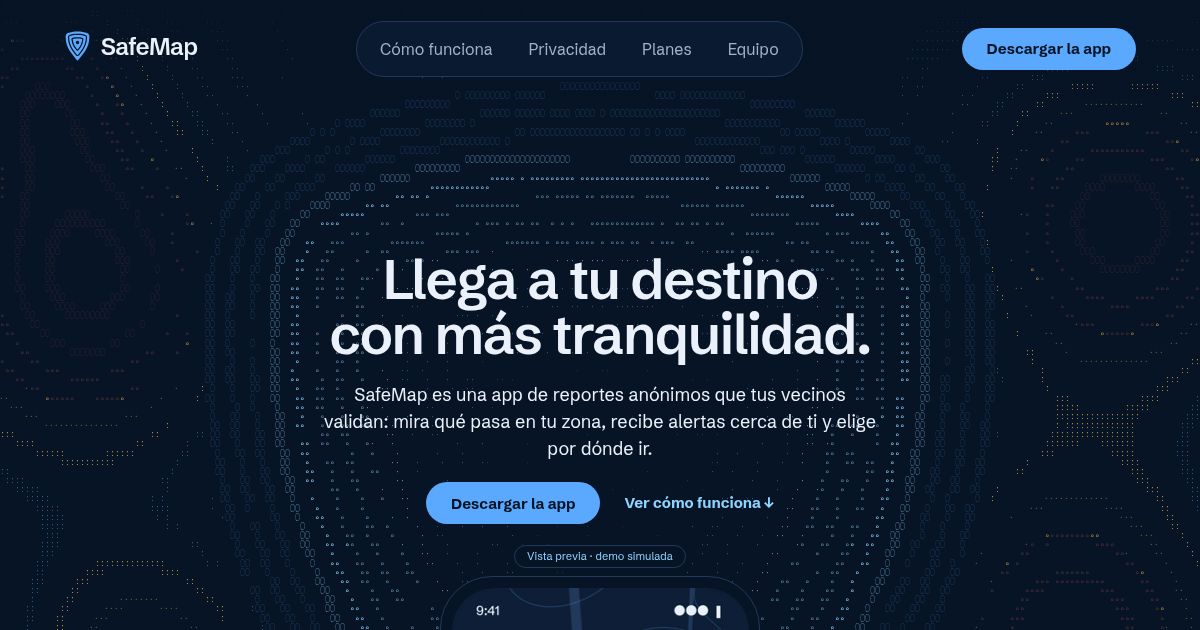
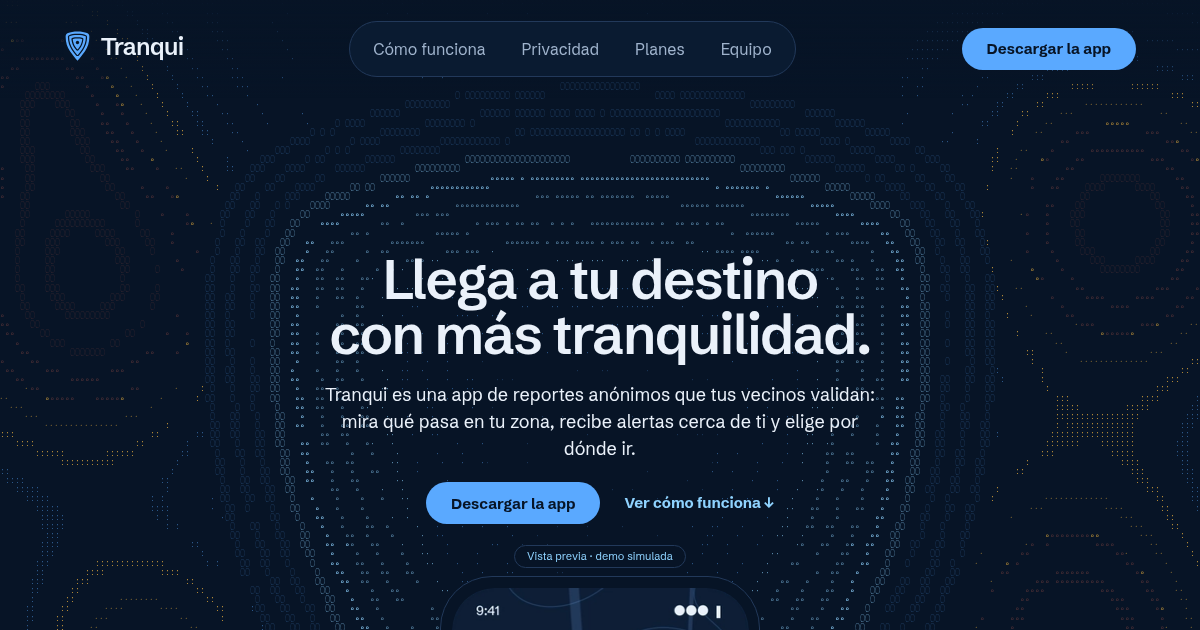
feat: rename the product from SafeMap to Tranqui
Updates all landing copy, accessible names, metadata, web manifest, the Open Graph image and project docs. The repository and the /safe-map/ path stay unchanged.

Changed region(s): [[0.2775, 0.6032, 0.74, 0.7238], [0.3083, 0.0603, 0.6475, 0.0905], [0.0617, 0.0603, 0.185, 0.0905]]

diff --git a/README.md b/README.md
@@ -1,6 +1,6 @@
-# SafeMap — Landing
+# Tranqui — Landing
 
-Landing informativa del proyecto académico SafeMap: reportes anónimos validados por vecinos para conocer lo que pasa en tu zona. Implementada en Astro 7 y Tailwind 4, sin runtime de React ni prototipo de mapas web. La futura app Flutter se mantiene en otro repositorio.
+Landing informativa del proyecto académico Tranqui: reportes anónimos validados por vecinos para conocer lo que pasa en tu zona. Implementada en Astro 7 y Tailwind 4, sin runtime de React ni prototipo de mapas web. La futura app Flutter se mantiene en otro repositorio.
 
 ## Desarrollo
 
@@ -27,7 +27,7 @@ npm run build
 npm run preview
 ```
 
-`build` limita el heap de Node a 768 MiB y el pool de trabajo de imágenes a un hilo. Conserva los argumentos de Astro (`npm run build -- --outDir /tmp/safemap-preview`). Los PNG originales no se modifican: Astro/Sharp produce variantes AVIF/WebP durante el build. El primer build tarda más por las imágenes; los siguientes reutilizan caché.
+`build` limita el heap de Node a 768 MiB y el pool de trabajo de imágenes a un hilo. Conserva los argumentos de Astro (`npm run build -- --outDir /tmp/tranqui-preview`). Los PNG originales no se modifican: Astro/Sharp produce variantes AVIF/WebP durante el build. El primer build tarda más por las imágenes; los siguientes reutilizan caché.
 
 Las regresiones de navegador usan Playwright. Instalar Chromium una vez con `npx playwright install chromium` si no existe. Con el servidor activo, ejecutar **un script por vez**:
 

diff --git a/AGENTS.md b/AGENTS.md
@@ -1,6 +1,6 @@
 # Agent instructions
 
-This repository is the SafeMap landing page (Astro 7 + Tailwind 4, deployed to GitHub Pages under `/safe-map/`).
+This repository is the Tranqui landing page (formerly SafeMap) (Astro 7 + Tailwind 4, deployed to GitHub Pages under `/safe-map/`).
 
 ## Active work
 

diff --git a/DEPLOYMENT.md b/DEPLOYMENT.md
@@ -1,4 +1,4 @@
-# Desplegar la landing de SafeMap
+# Desplegar la landing de Tranqui
 
 El sitio es estático y GitHub Pages lo sirve bajo `/safe-map/`. La implementación se integra en `develop`; esa rama no publica en producción y no se fusiona automáticamente con `main`.
 
